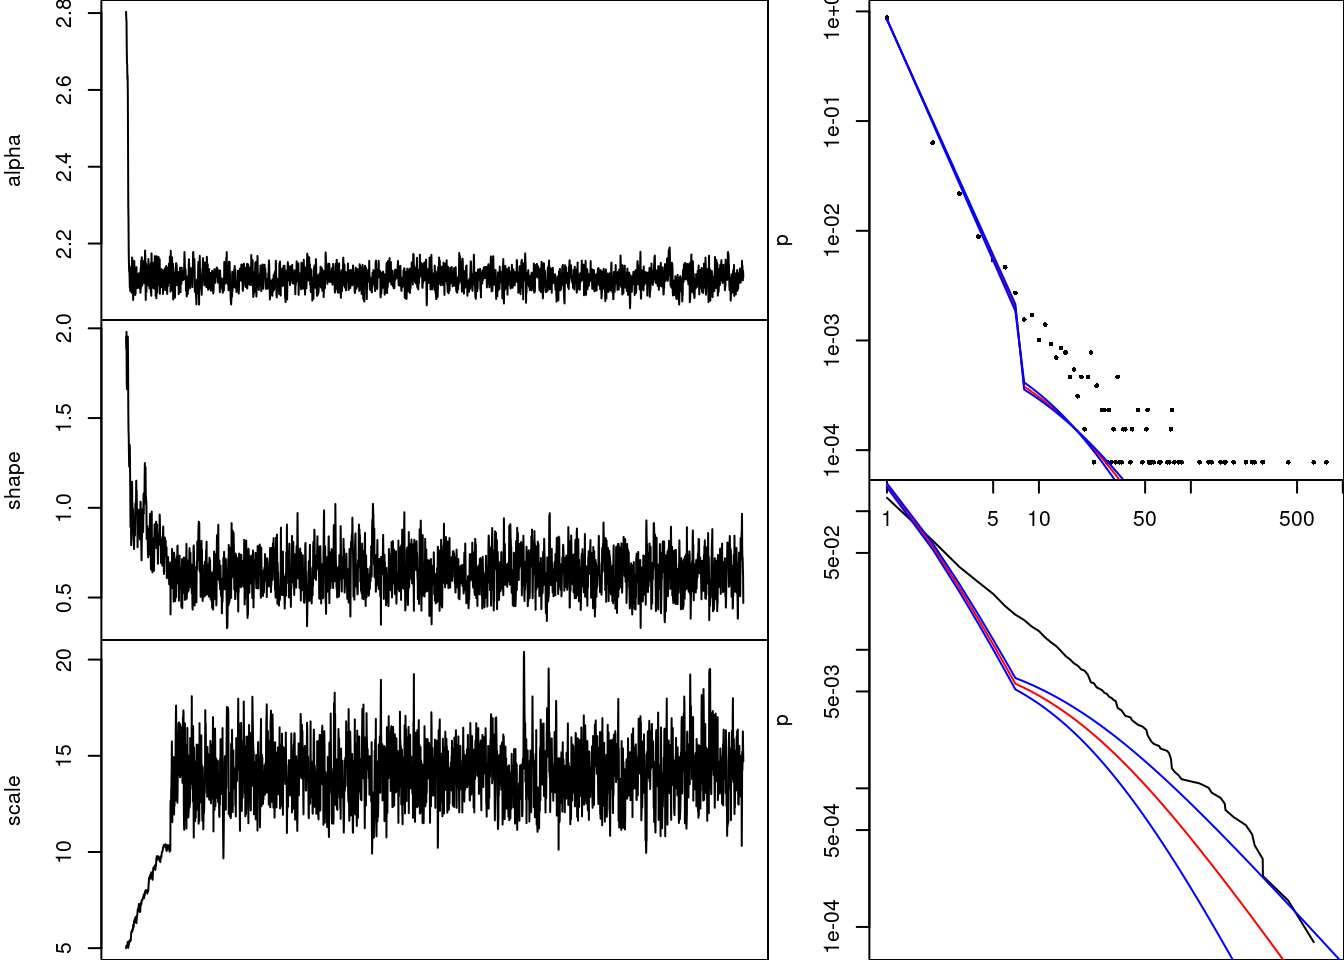
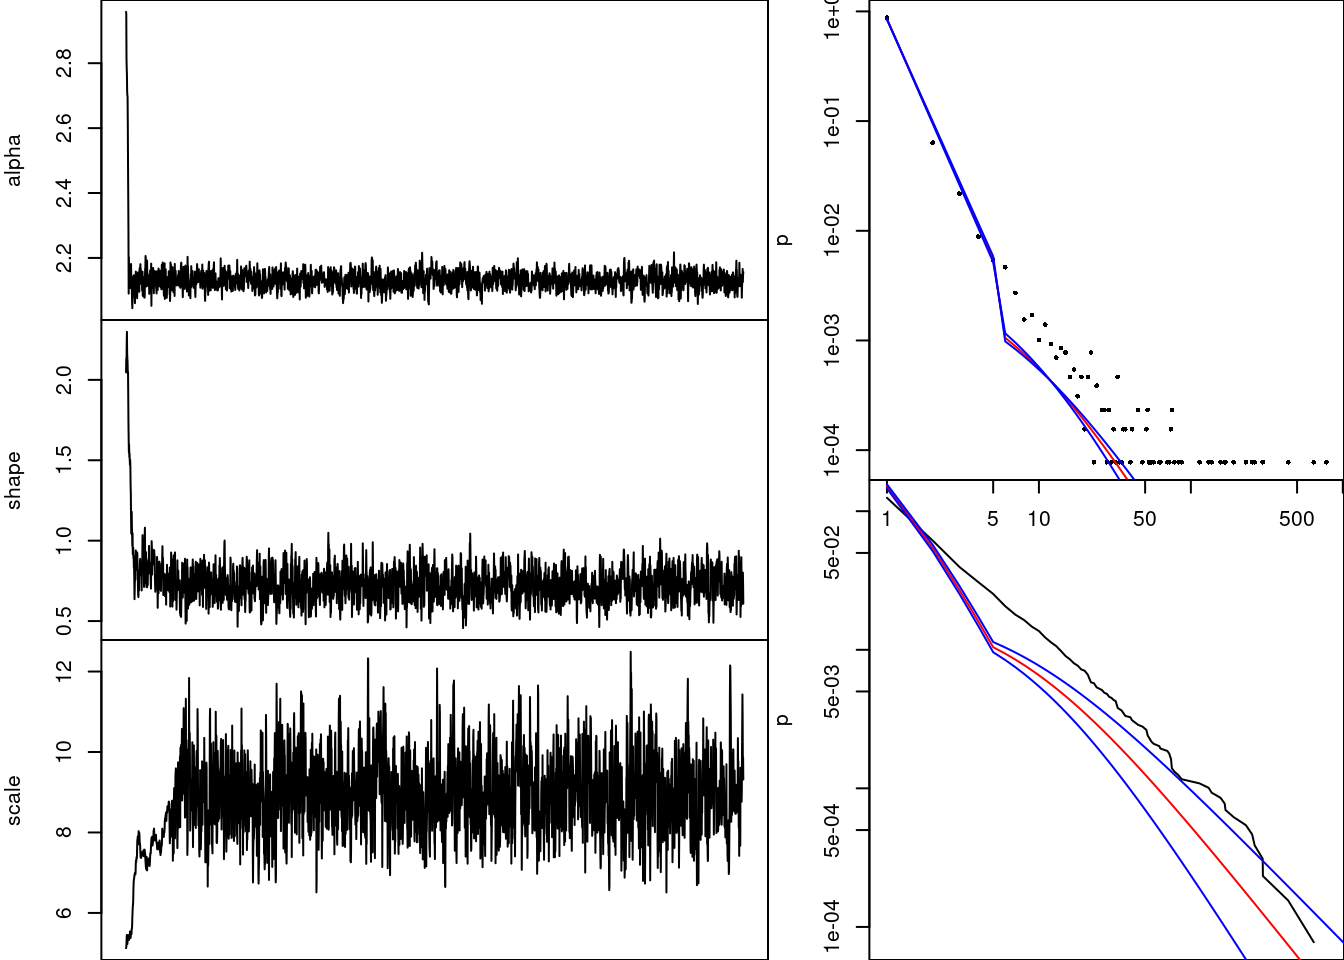
Updataed with details of posterior

diff --git a/quarto/CRAN.html b/quarto/CRAN.html
@@ -20,6 +20,40 @@ ul.task-list li input[type="checkbox"] {
   margin: 0 0.8em 0.2em -1em; /* quarto-specific, see https://github.com/quarto-dev/quarto-cli/issues/4556 */ 
   vertical-align: middle;
 }
+/* CSS for syntax highlighting */
+pre > code.sourceCode { white-space: pre; position: relative; }
+pre > code.sourceCode > span { display: inline-block; line-height: 1.25; }
+pre > code.sourceCode > span:empty { height: 1.2em; }
+.sourceCode { overflow: visible; }
+code.sourceCode > span { color: inherit; text-decoration: inherit; }
+div.sourceCode { margin: 1em 0; }
+pre.sourceCode { margin: 0; }
+@media screen {
+div.sourceCode { overflow: auto; }
+}
+@media print {
+pre > code.sourceCode { white-space: pre-wrap; }
+pre > code.sourceCode > span { text-indent: -5em; padding-left: 5em; }
+}
+pre.numberSource code
+  { counter-reset: source-line 0; }
+pre.numberSource code > span
+  { position: relative; left: -4em; counter-increment: source-line; }
+pre.numberSource code > span > a:first-child::before
+  { content: counter(source-line);
+    position: relative; left: -1em; text-align: right; vertical-align: baseline;
+    border: none; display: inline-block;
+    -webkit-touch-callout: none; -webkit-user-select: none;
+    -khtml-user-select: none; -moz-user-select: none;
+    -ms-user-select: none; user-select: none;
+    padding: 0 4px; width: 4em;
+  }
+pre.numberSource { margin-left: 3em;  padding-left: 4px; }
+div.sourceCode
+  {   }
+@media screen {
+pre > code.sourceCode > span > a:first-child::before { text-decoration: underline; }
+}
 </style>
 
 
@@ -204,6 +238,20 @@ f(x) =
 \left[1-\zeta(\alpha+1)^{-1}\sum_{k=1}^u k^{-(\alpha+1)}\right]\left\{\left(1+\frac{\xi(x-1)}{\sigma_u}\right)_+^{-1/\xi} - \left(1+\frac{\xi x}{\sigma_u}\right)_+^{-1/\xi}\right\}&amp;,x&gt;u
 \end{cases}
 \]</span></p>
+<p>And the cumulative mass function is given by:</p>
+<p><span class="math display">\[
+F(x) = \begin{cases}
+\zeta(\alpha+1)^{-1}\sum_{k=1}^xk^{-(\alpha+1)}&amp;,x\leq u\\
+\zeta(\alpha+1)^{-1}\sum_{k=1}^uk^{-(\alpha+1)} + \left[1-\zeta(\alpha+1)^{-1}\sum_{k=1}^u k^{-(\alpha+1)}\right]\sum_{k=u+1}^x\left\{\left(1+\frac{\xi(k-1)}{\sigma_u}\right)_+^{-1/\xi} - \left(1+\frac{\xi k}{\sigma_u}\right)_+^{-1/\xi}\right\}&amp;,x&gt;u
+\end{cases}
+\]</span></p>
+<p>This can be simplified to:</p>
+<p><span class="math display">\[
+F(x) = \begin{cases}
+\zeta(\alpha+1)^{-1}\sum_{k=1}^xk^{-(\alpha+1)}&amp;,x\leq u\\
+\zeta(\alpha+1)^{-1}\sum_{k=1}^uk^{-(\alpha+1)} + \left[1-\zeta(\alpha+1)^{-1}\sum_{k=1}^u k^{-(\alpha+1)}\right]\left\{1 - \left(1+\frac{\xi k}{\sigma_u}\right)_+^{-1/\xi}\right\}&amp;,x&gt;u
+\end{cases}
+\]</span></p>
 <p>Which makes the survival function of this model:</p>
 <p><span class="math display">\[
 S(x) =
@@ -227,18 +275,39 @@ L(x) = \zeta(\alpha+1)^{-n}C_{\alpha,u}^{N-n}\prod_{i:x_i\leq u}x_i^{-(\alpha+1)
 \xi \sim N(0,s^2),\\
 \sigma_u \sim Ga(\phi,\psi)
 \]</span></p>
+<p>Our joint prior distribution is defined as follows:</p>
+<span class="math display">\[\begin{align}
+\pi(\alpha,\xi,\sigma_u) &amp;= \pi(\alpha)\pi(\xi)\pi(\sigma_u)\\
+\log\pi(\alpha,\xi\sigma_u) &amp;= \log\pi(\alpha) +\log\pi(\xi) +\log\pi(\sigma_u)
+\end{align}\]</span>
+<p>And we have that</p>
+<span class="math display">\[\begin{align}
+\log\pi(\alpha) &amp;= \gamma\log\delta - \log\Gamma(\gamma) + (\gamma-1)\log\alpha -\delta\alpha\\
+\log\pi(\xi) &amp;= -\log s -0.5\log 2\pi - \frac{\xi^2}{2s^2}\\
+\log\pi(\sigma_u) &amp;= \phi\log\psi - \log\Gamma(\phi) + (\phi-1)\log\sigma_u - \psi\sigma_u
+\end{align}\]</span>
 <p>Which we can then use to construct the joint posterior:</p>
-<p>[WRITE UP POSTERIOR AND LOG POSTERIOR]</p>
+<span class="math display">\[\begin{align}
+\pi(\alpha,\xi,\sigma_u|x) &amp;\propto L(x)\pi(\alpha,\xi,\sigma_u)\\
+                            &amp;=L(x)\pi(\alpha)\pi(\xi)\pi(\sigma_u)\\
+\log\pi(\alpha,\xi,\sigma_u|x) &amp;= \log A + \ell(x) +  \log\pi(\alpha) +\log\pi(\xi) + \log\pi(\sigma_u)\\
+&amp;= \log B - n\log\zeta(\alpha+1) - (\alpha + 1)\sum_{i:x_i\leq u}\log x_i + (N-n)\log C_{\alpha,u} + \sum_{i:x_i&gt;u}\log[G(x_i-1) - G(x_i)]\\
+
+&amp;\qquad + (\gamma-1)\log\alpha - \delta\alpha -\frac{\xi^2}{2s^2} + (\phi-1)\log\sigma_u - \psi\sigma_u
+\end{align}\]</span>
 <p>We can now use this to fit the model for various thresholds, the thresholds we will be using will be based on the quantiles of our data.</p>
 <section id="plots-of-fitted-model" class="level2">
 <h2 class="anchored" data-anchor-id="plots-of-fitted-model">Plots of fitted model</h2>
+<div class="cell">
+<div class="sourceCode cell-code" id="cb1"><pre class="sourceCode r code-with-copy"><code class="sourceCode r"><span id="cb1-1"><a href="#cb1-1" aria-hidden="true" tabindex="-1"></a>n.iter<span class="ot">=</span><span class="fl">1e4</span></span></code><button title="Copy to Clipboard" class="code-copy-button"><i class="bi"></i></button></pre></div>
+</div>
 <section id="depends-data-1" class="level3">
 <h3 class="anchored" data-anchor-id="depends-data-1">Depends data</h3>
 <section id="quantile-0.95" class="level4">
 <h4 class="anchored" data-anchor-id="quantile-0.95">Quantile 0.95</h4>
 <div class="cell">
 <div class="cell-output-display">
-<p><img src="CRAN_files/figure-html/unnamed-chunk-6-1.png" class="img-fluid" width="672"></p>
+<p><img src="CRAN_files/figure-html/unnamed-chunk-7-1.png" class="img-fluid" width="672"></p>
 </div>
 </div>
 </section>
@@ -246,7 +315,7 @@ L(x) = \zeta(\alpha+1)^{-n}C_{\alpha,u}^{N-n}\prod_{i:x_i\leq u}x_i^{-(\alpha+1)
 <h4 class="anchored" data-anchor-id="quantile-0.97">Quantile 0.97</h4>
 <div class="cell">
 <div class="cell-output-display">
-<p><img src="CRAN_files/figure-html/unnamed-chunk-7-1.png" class="img-fluid" width="672"></p>
+<p><img src="CRAN_files/figure-html/unnamed-chunk-8-1.png" class="img-fluid" width="672"></p>
 </div>
 </div>
 </section>
@@ -254,7 +323,7 @@ L(x) = \zeta(\alpha+1)^{-n}C_{\alpha,u}^{N-n}\prod_{i:x_i\leq u}x_i^{-(\alpha+1)
 <h4 class="anchored" data-anchor-id="quantile-0.98">Quantile 0.98</h4>
 <div class="cell">
 <div class="cell-output-display">
-<p><img src="CRAN_files/figure-html/unnamed-chunk-8-1.png" class="img-fluid" width="672"></p>
+<p><img src="CRAN_files/figure-html/unnamed-chunk-9-1.png" class="img-fluid" width="672"></p>
 </div>
 </div>
 </section>
@@ -262,7 +331,7 @@ L(x) = \zeta(\alpha+1)^{-n}C_{\alpha,u}^{N-n}\prod_{i:x_i\leq u}x_i^{-(\alpha+1)
 <h4 class="anchored" data-anchor-id="quantile-0.99">Quantile 0.99</h4>
 <div class="cell">
 <div class="cell-output-display">
-<p><img src="CRAN_files/figure-html/unnamed-chunk-9-1.png" class="img-fluid" width="672"></p>
+<p><img src="CRAN_files/figure-html/unnamed-chunk-10-1.png" class="img-fluid" width="672"></p>
 </div>
 </div>
 </section>
@@ -273,7 +342,7 @@ L(x) = \zeta(\alpha+1)^{-n}C_{\alpha,u}^{N-n}\prod_{i:x_i\leq u}x_i^{-(\alpha+1)
 <h4 class="anchored" data-anchor-id="quantile-0.95-1">Quantile 0.95</h4>
 <div class="cell">
 <div class="cell-output-display">
-<p><img src="CRAN_files/figure-html/unnamed-chunk-10-1.png" class="img-fluid" width="672"></p>
+<p><img src="CRAN_files/figure-html/unnamed-chunk-11-1.png" class="img-fluid" width="672"></p>
 </div>
 </div>
 </section>
@@ -281,7 +350,7 @@ L(x) = \zeta(\alpha+1)^{-n}C_{\alpha,u}^{N-n}\prod_{i:x_i\leq u}x_i^{-(\alpha+1)
 <h4 class="anchored" data-anchor-id="quantile-0.97-1">Quantile 0.97</h4>
 <div class="cell">
 <div class="cell-output-display">
-<p><img src="CRAN_files/figure-html/unnamed-chunk-11-1.png" class="img-fluid" width="672"></p>
+<p><img src="CRAN_files/figure-html/unnamed-chunk-12-1.png" class="img-fluid" width="672"></p>
 </div>
 </div>
 </section>
@@ -289,7 +358,7 @@ L(x) = \zeta(\alpha+1)^{-n}C_{\alpha,u}^{N-n}\prod_{i:x_i\leq u}x_i^{-(\alpha+1)
 <h4 class="anchored" data-anchor-id="quantile-0.98-1">Quantile 0.98</h4>
 <div class="cell">
 <div class="cell-output-display">
-<p><img src="CRAN_files/figure-html/unnamed-chunk-12-1.png" class="img-fluid" width="672"></p>
+<p><img src="CRAN_files/figure-html/unnamed-chunk-13-1.png" class="img-fluid" width="672"></p>
 </div>
 </div>
 </section>
@@ -297,7 +366,7 @@ L(x) = \zeta(\alpha+1)^{-n}C_{\alpha,u}^{N-n}\prod_{i:x_i\leq u}x_i^{-(\alpha+1)
 <h4 class="anchored" data-anchor-id="quantile-0.99-1">Quantile 0.99</h4>
 <div class="cell">
 <div class="cell-output-display">
-<p><img src="CRAN_files/figure-html/unnamed-chunk-13-1.png" class="img-fluid" width="672"></p>
+<p><img src="CRAN_files/figure-html/unnamed-chunk-14-1.png" class="img-fluid" width="672"></p>
 </div>
 </div>
 </section>
@@ -308,7 +377,7 @@ L(x) = \zeta(\alpha+1)^{-n}C_{\alpha,u}^{N-n}\prod_{i:x_i\leq u}x_i^{-(\alpha+1)
 <h4 class="anchored" data-anchor-id="quantile-0.95-2">Quantile 0.95</h4>
 <div class="cell">
 <div class="cell-output-display">
-<p><img src="CRAN_files/figure-html/unnamed-chunk-14-1.png" class="img-fluid" width="672"></p>
+<p><img src="CRAN_files/figure-html/unnamed-chunk-15-1.png" class="img-fluid" width="672"></p>
 </div>
 </div>
 </section>
@@ -316,7 +385,7 @@ L(x) = \zeta(\alpha+1)^{-n}C_{\alpha,u}^{N-n}\prod_{i:x_i\leq u}x_i^{-(\alpha+1)
 <h4 class="anchored" data-anchor-id="quantile-0.97-2">Quantile 0.97</h4>
 <div class="cell">
 <div class="cell-output-display">
-<p><img src="CRAN_files/figure-html/unnamed-chunk-15-1.png" class="img-fluid" width="672"></p>
+<p><img src="CRAN_files/figure-html/unnamed-chunk-16-1.png" class="img-fluid" width="672"></p>
 </div>
 </div>
 </section>
@@ -324,7 +393,7 @@ L(x) = \zeta(\alpha+1)^{-n}C_{\alpha,u}^{N-n}\prod_{i:x_i\leq u}x_i^{-(\alpha+1)
 <h4 class="anchored" data-anchor-id="quantile-0.98-2">Quantile 0.98</h4>
 <div class="cell">
 <div class="cell-output-display">
-<p><img src="CRAN_files/figure-html/unnamed-chunk-16-1.png" class="img-fluid" width="672"></p>
+<p><img src="CRAN_files/figure-html/unnamed-chunk-17-1.png" class="img-fluid" width="672"></p>
 </div>
 </div>
 </section>
@@ -332,7 +401,7 @@ L(x) = \zeta(\alpha+1)^{-n}C_{\alpha,u}^{N-n}\prod_{i:x_i\leq u}x_i^{-(\alpha+1)
 <h4 class="anchored" data-anchor-id="quantile-0.99-2">Quantile 0.99</h4>
 <div class="cell">
 <div class="cell-output-display">
-<p><img src="CRAN_files/figure-html/unnamed-chunk-17-1.png" class="img-fluid" width="672"></p>
+<p><img src="CRAN_files/figure-html/unnamed-chunk-18-1.png" class="img-fluid" width="672"></p>
 </div>
 </div>
 </section>
@@ -343,7 +412,7 @@ L(x) = \zeta(\alpha+1)^{-n}C_{\alpha,u}^{N-n}\prod_{i:x_i\leq u}x_i^{-(\alpha+1)
 <h4 class="anchored" data-anchor-id="quantile-0.95-3">Quantile 0.95</h4>
 <div class="cell">
 <div class="cell-output-display">
-<p><img src="CRAN_files/figure-html/unnamed-chunk-18-1.png" class="img-fluid" width="672"></p>
+<p><img src="CRAN_files/figure-html/unnamed-chunk-19-1.png" class="img-fluid" width="672"></p>
 </div>
 </div>
 </section>
@@ -351,7 +420,7 @@ L(x) = \zeta(\alpha+1)^{-n}C_{\alpha,u}^{N-n}\prod_{i:x_i\leq u}x_i^{-(\alpha+1)
 <h4 class="anchored" data-anchor-id="quantile-0.97-3">Quantile 0.97</h4>
 <div class="cell">
 <div class="cell-output-display">
-<p><img src="CRAN_files/figure-html/unnamed-chunk-19-1.png" class="img-fluid" width="672"></p>
+<p><img src="CRAN_files/figure-html/unnamed-chunk-20-1.png" class="img-fluid" width="672"></p>
 </div>
 </div>
 </section>
@@ -359,7 +428,7 @@ L(x) = \zeta(\alpha+1)^{-n}C_{\alpha,u}^{N-n}\prod_{i:x_i\leq u}x_i^{-(\alpha+1)
 <h4 class="anchored" data-anchor-id="quantile-0.98-3">Quantile 0.98</h4>
 <div class="cell">
 <div class="cell-output-display">
-<p><img src="CRAN_files/figure-html/unnamed-chunk-20-1.png" class="img-fluid" width="672"></p>
+<p><img src="CRAN_files/figure-html/unnamed-chunk-21-1.png" class="img-fluid" width="672"></p>
 </div>
 </div>
 </section>
@@ -367,7 +436,7 @@ L(x) = \zeta(\alpha+1)^{-n}C_{\alpha,u}^{N-n}\prod_{i:x_i\leq u}x_i^{-(\alpha+1)
 <h4 class="anchored" data-anchor-id="quantile-0.99-3">Quantile 0.99</h4>
 <div class="cell">
 <div class="cell-output-display">
-<p><img src="CRAN_files/figure-html/unnamed-chunk-21-1.png" class="img-fluid" width="672"></p>
+<p><img src="CRAN_files/figure-html/unnamed-chunk-22-1.png" class="img-fluid" width="672"></p>
 </div>
 </div>
 </section>
@@ -383,7 +452,7 @@ L(x) = \zeta(\alpha+1)^{-n}C_{\alpha,u}^{N-n}\prod_{i:x_i\leq u}x_i^{-(\alpha+1)
 <h3 class="anchored" data-anchor-id="defaults">Defaults</h3>
 <div class="cell">
 <div class="cell-output-display">
-<p><img src="CRAN_files/figure-html/unnamed-chunk-23-1.png" class="img-fluid" width="672"></p>
+<p><img src="CRAN_files/figure-html/unnamed-chunk-24-1.png" class="img-fluid" width="672"></p>
 </div>
 </div>
 </section>
@@ -391,7 +460,7 @@ L(x) = \zeta(\alpha+1)^{-n}C_{\alpha,u}^{N-n}\prod_{i:x_i\leq u}x_i^{-(\alpha+1)
 <h3 class="anchored" data-anchor-id="increasing-the-value-of-aa">Increasing the value of aa</h3>
 <div class="cell">
 <div class="cell-output-display">
-<p><img src="CRAN_files/figure-html/unnamed-chunk-24-1.png" class="img-fluid" width="672"></p>
+<p><img src="CRAN_files/figure-html/unnamed-chunk-25-1.png" class="img-fluid" width="672"></p>
 </div>
 </div>
 </section>
